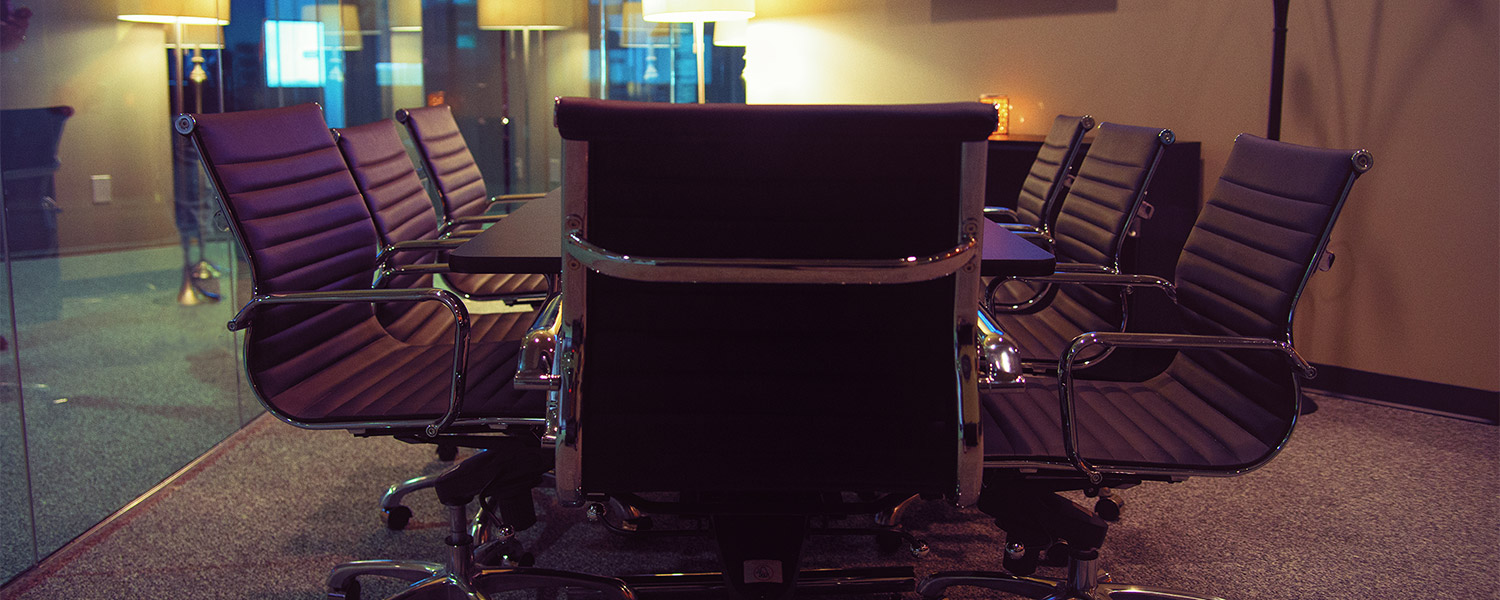
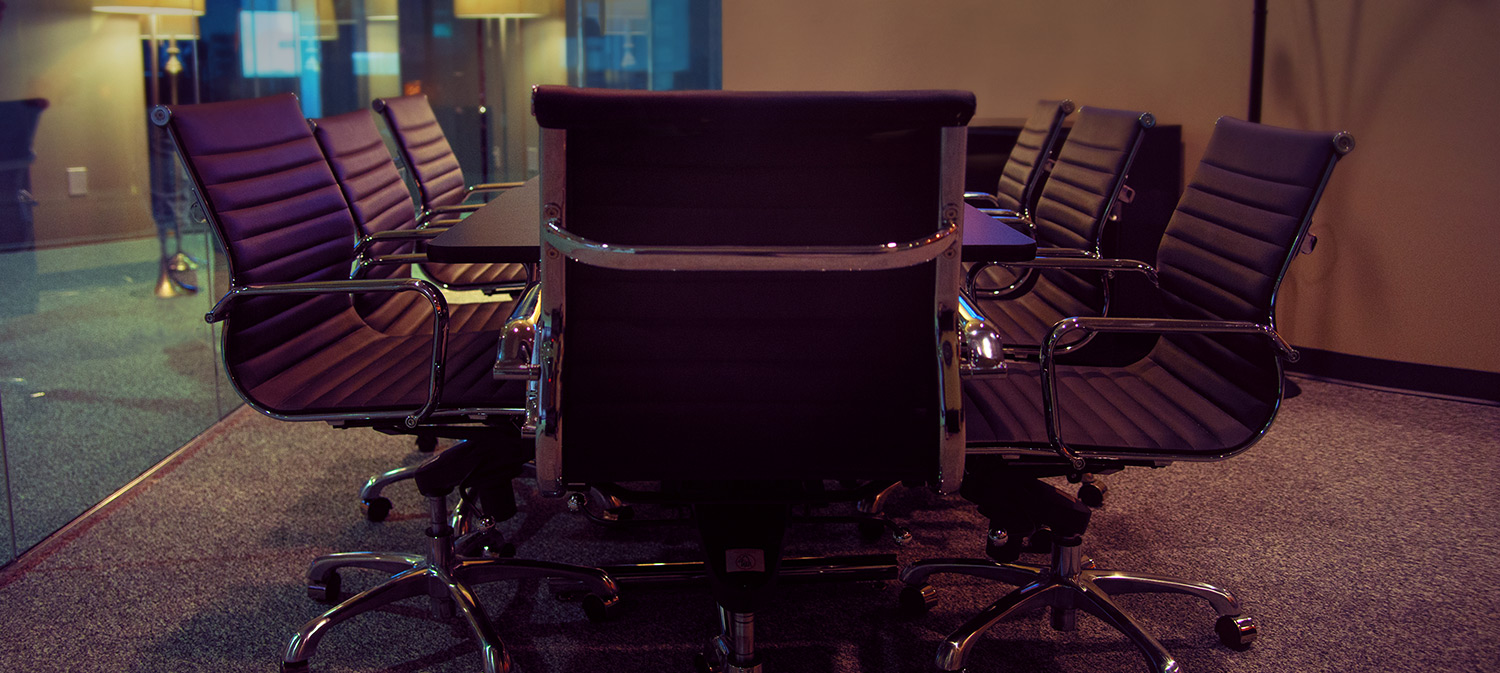
Update Jobs background image
Background image was updated, and the primary navigation color was
changed to better suit the image.

Hero formatting modified to better match the hero background.

Changes to be committed:
modified:   _sass/pages/_about.scss
new file:   images/jobs/jobs-bg-small.jpg
new file:   images/jobs/jobs-bg-small@2x.jpg
modified:   images/jobs/jobs-bg.jpg
modified:   images/jobs/jobs-bg@2x.jpg
modified:   pages/jobs.html

diff --git a/pages/jobs.html b/pages/jobs.html
@@ -3,12 +3,12 @@ layout: default
 section: jobs
 title: Jobs
 permalink: /jobs/
-class: jobs logo-red-white
+class: jobs logo-white-white header-light
 hero: section-jobs-top
 ---
 
   <div class="hero-inner">
-    <div class="hero-side alt">
+    <div class="hero-copy alt">
       <h1>It's more than a job.<br />It's a calling.</h1>
       <p>
         <a href="//jobs.lifechurch.tv"

diff --git a/_sass/pages/_about.scss b/_sass/pages/_about.scss
@@ -34,6 +34,10 @@
 .jobs {
 
   .section-jobs-top { 
+    @include retina-image(/images/jobs/jobs-bg-small, 472px auto, jpg);
+    min-height: 300px;
+
+
     h1 {
       margin-top: 10px;
     }
@@ -45,7 +49,7 @@
       height: 570px;
 
       h1 {
-        margin-top: 160px;
+        margin-top: 230px;
       }
     }
 
